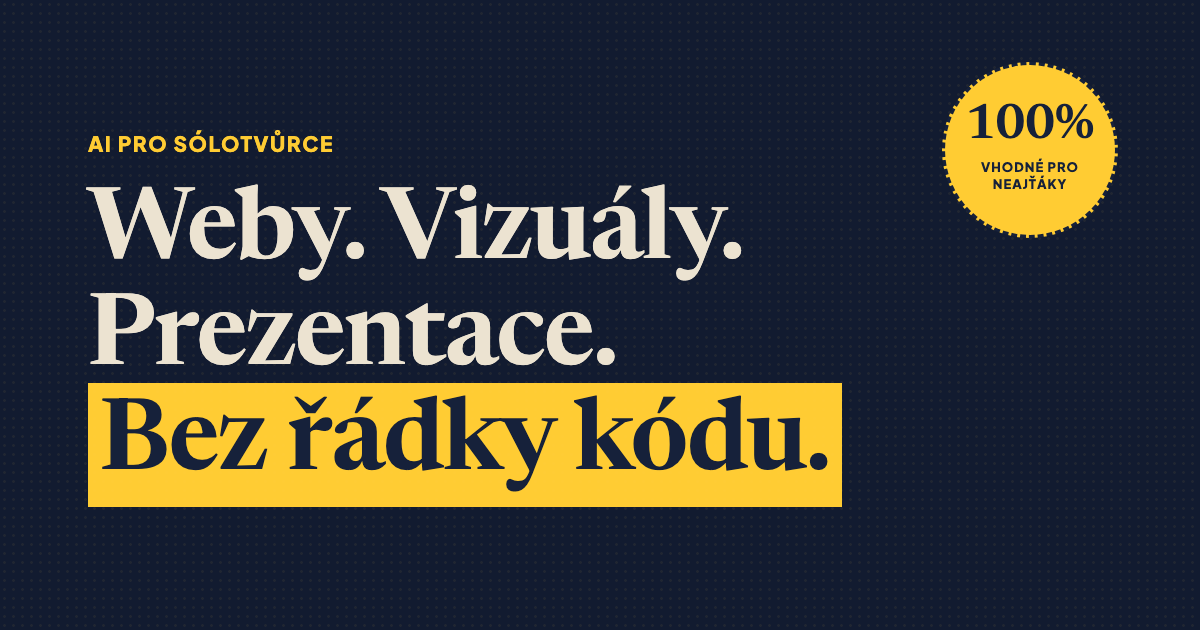
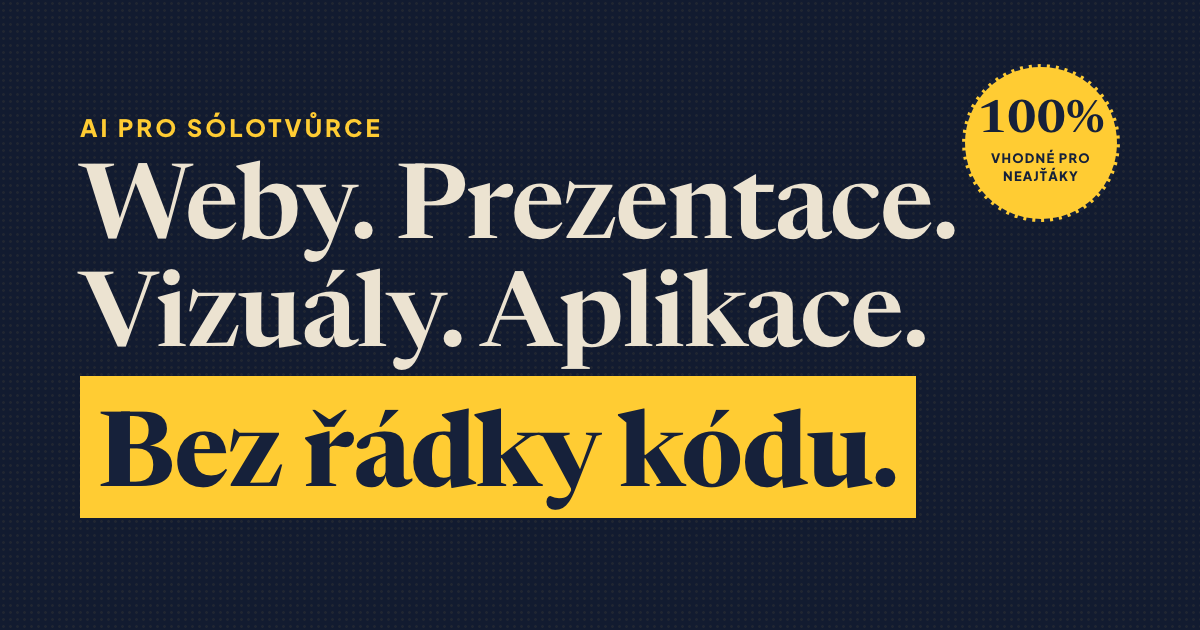
OG náhled: přidána "Aplikace" (obrázek + meta description)

Changed region(s): [[0.0617, 0.1206, 0.9558, 0.8444], [0.8325, 0.0905, 0.8942, 0.1206]]

diff --git a/index.html b/index.html
@@ -14,16 +14,16 @@
   <meta property="og:type" content="website" />
   <meta property="og:url" content="https://solotvurci.cz" />
   <meta property="og:title" content="AI pro sólotvůrce – online kurz vibecodingu pro netechniky" />
-  <meta property="og:description" content="Weby. Vizuály. Prezentace. Bez řádky kódu. Online kurz pro sólotvůrce, co nikdy neprogramovali." />
+  <meta property="og:description" content="Weby. Aplikace. Prezentace. Vizuály. Bez řádky kódu. Online kurz pro sólotvůrce, kteří nikdy neprogramovali." />
   <meta property="og:locale" content="cs_CZ" />
   <meta property="og:site_name" content="AI pro sólotvůrce" />
   <meta property="og:image" content="https://solotvurci.cz/og-image.png" />
   <meta property="og:image:width" content="1200" />
   <meta property="og:image:height" content="630" />
-  <meta property="og:image:alt" content="AI pro sólotvůrce – Weby. Vizuály. Prezentace. Bez řádky kódu." />
+  <meta property="og:image:alt" content="AI pro sólotvůrce – Weby. Prezentace. Vizuály. Aplikace. Bez řádky kódu." />
   <meta name="twitter:card" content="summary_large_image" />
   <meta name="twitter:title" content="AI pro sólotvůrce – online kurz vibecodingu pro netechniky" />
-  <meta name="twitter:description" content="Weby. Vizuály. Prezentace. Bez řádky kódu. Online kurz pro sólotvůrce, co nikdy neprogramovali." />
+  <meta name="twitter:description" content="Weby. Aplikace. Prezentace. Vizuály. Bez řádky kódu. Online kurz pro sólotvůrce, kteří nikdy neprogramovali." />
   <meta name="twitter:image" content="https://solotvurci.cz/og-image.png" />
   <script type="application/ld+json">
   {